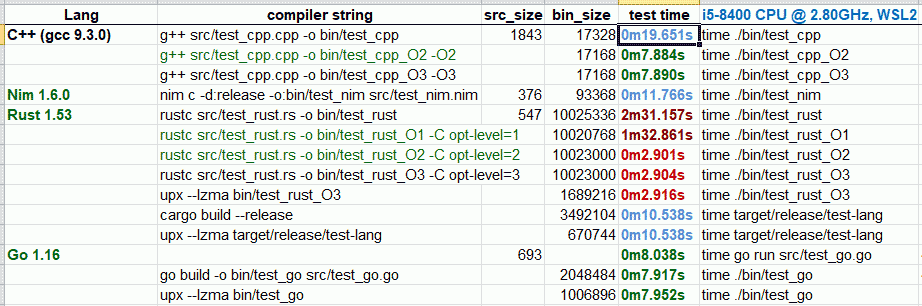
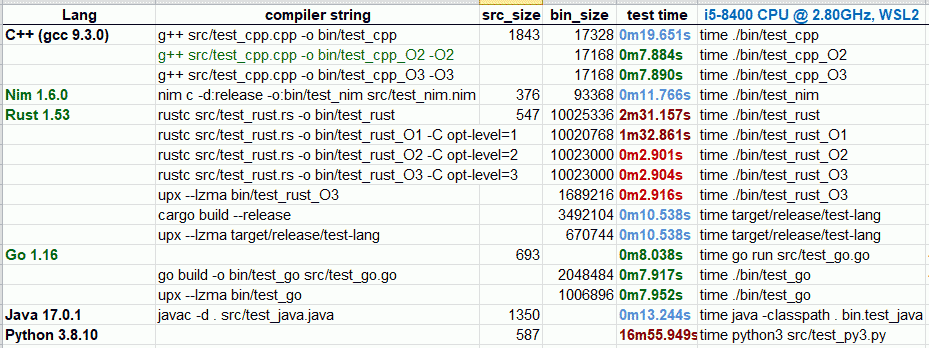
add test: java, python

diff --git a/src/test_java.java b/src/test_java.java
@@ -15,7 +15,7 @@ public class test_java {
         int i_loop2 = 0;
         int i_loop3 = 0;
         int i_counter = 0;
-        int l_counter = 0;
+        long l_counter = 0;
 
         String s_version = System.getProperty("java.version");
         System.out.println("Java Version: " + s_version);
